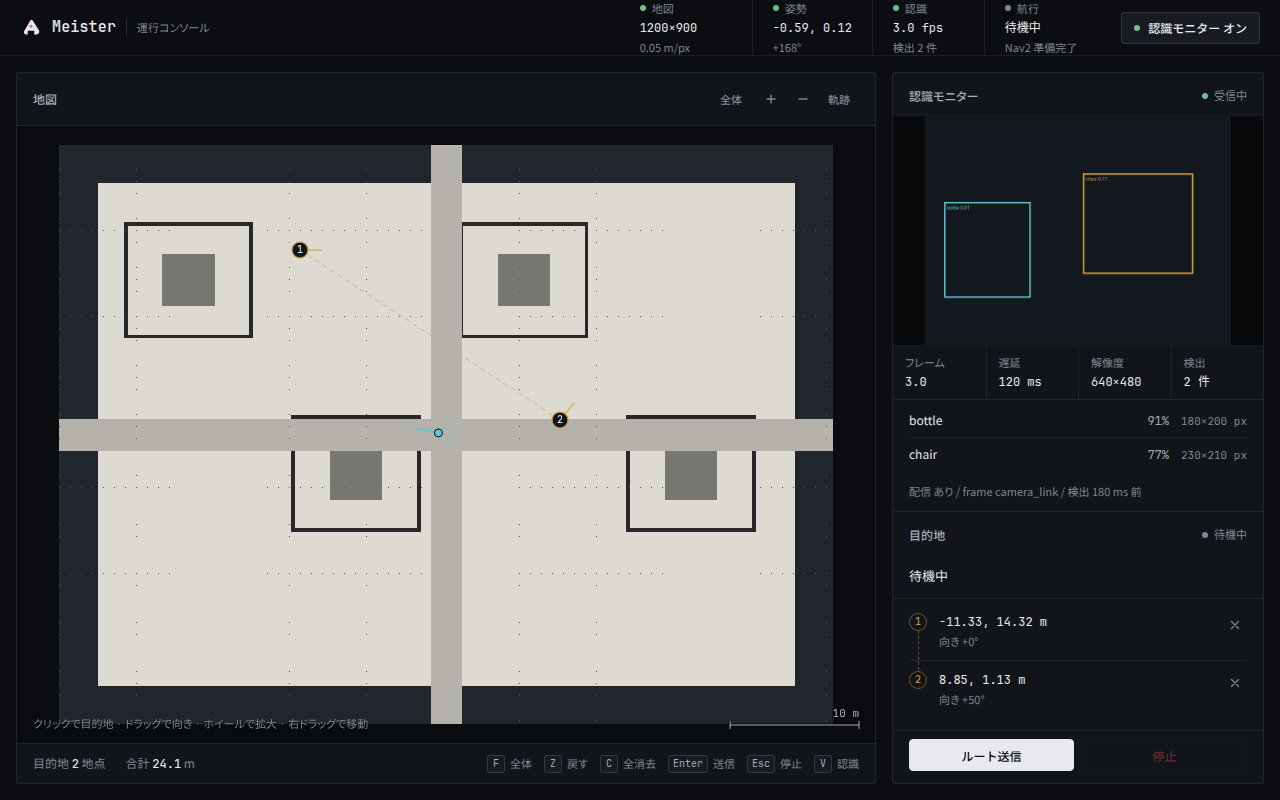
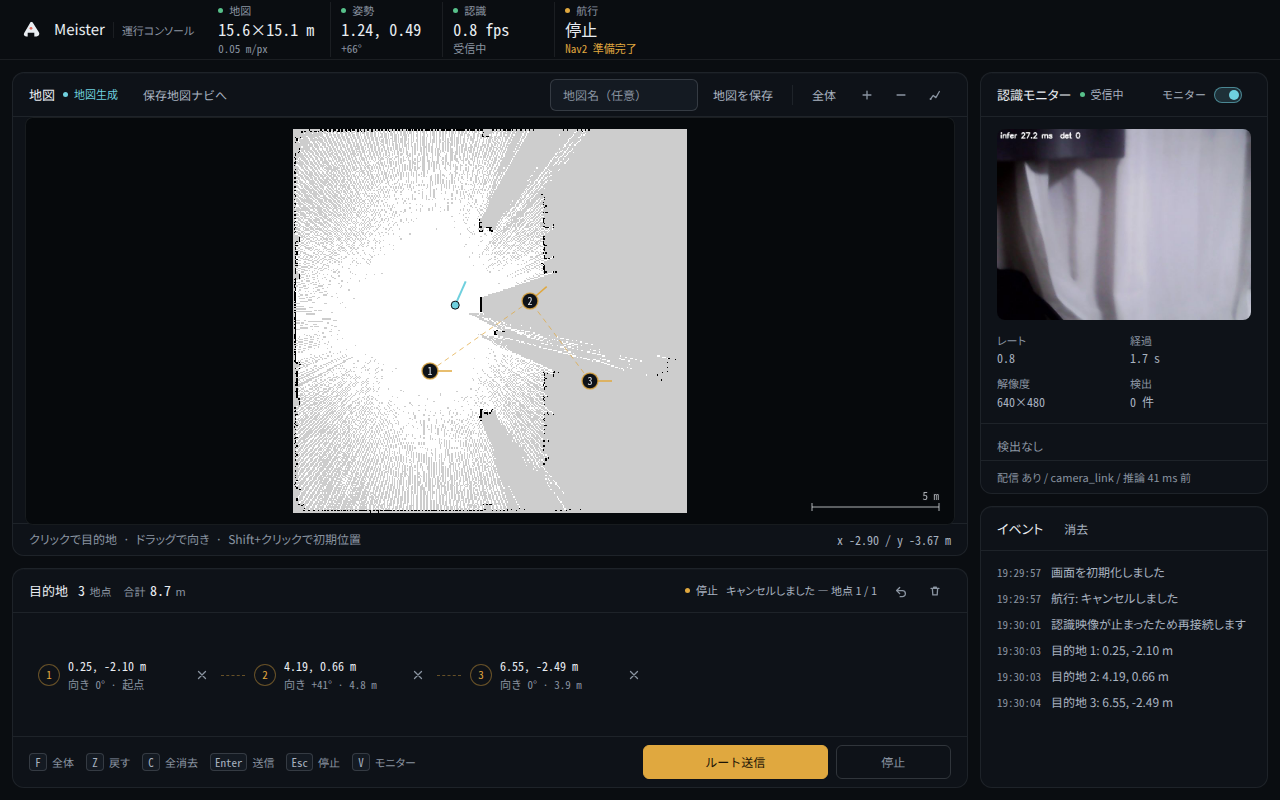
docs(webui): 画面構成とスクリーンショットを更新する

diff --git a/docs/design/05-web-ui.md b/docs/design/05-web-ui.md
@@ -1,14 +1,14 @@
 # 設計: Web UI
 
-> 対象機能: [features/05-web-ui.md](../features/05-web-ui.md) | 作成日: 2026-08-12 | 更新: 2026-11-18 | ステータス: 実装済み
+> 対象機能: [features/05-web-ui.md](../features/05-web-ui.md) | 作成日: 2026-08-12 | 更新: 2026-11-21 | ステータス: 実装済み
 > 関連ゴール: [G1](../やりたいこと.md#g1-ロッカーボギーロボット自動走行) [G2](../やりたいこと.md#g2-自動でアームでものを回収)
 
 ## 構成
 
 ```
 ブラウザ (バニラ JS / ES モジュール, ビルド無し)
-  ├ /api/map (5 s) /api/map.png (ETag + 304)
-  ├ /api/pose (0.5 s) /api/status (1 s) /api/vision (1 s)  … タブ表示中のみ
+  ├ /api/map (2 s) /api/map.png (ETag + 304)
+  ├ /api/pose (0.1 s) /api/status (0.1 s) /api/vision (0.5 s)  … タブ表示中のみ
   └ /api/vision.mjpg (MJPEG, 1 接続を張りっぱなし)          … タブ表示中のみ
         │
    httplib::Server (127.0.0.1:8088, スレッドプール)
@@ -33,7 +33,7 @@
 - **地図は内容ハッシュで版管理する**。メッセージ連番だと、同じ地図を再送する publisher が
   連番を進めるだけで ETag が変わり、304 が永久に成立しない。crop（既知セルの bbox + 5% 余白）と
   PNG エンコードは版ごとに 1 回だけ計算する（Python 版は 1 ポーリングで 2 回 crop していた）。
-- **地図の再取得では表示位置を変えない**。5 秒ごとに `Image` を作り直すが、全体表示に
+- **地図の再取得では表示位置を変えない**。2 秒ごとに `Image` を作り直すが、全体表示に
   合わせ直すのは地図の同一性（サイズ・解像度・原点）が変わったときだけ。地図更新のたびに
   操作中のパン・ズームが巻き戻るのを防ぐ。ウィンドウのリサイズは、利用者がまだパン・
   ズームしていなければ全体表示に追従し、操作後は表示を保つ。
@@ -95,33 +95,47 @@
 
 夜間の運用席で1人が長く見る計器として纏めた。画面の性格は「静かで、正確で、現場に馴染む」。
 
-- **面は無彩色**。背景・パネル・文字は1本のグラファイトの階調から取り、色は
-  **操作者が引いたルート（amber）** と **生きているロボット（cyan）** にだけ置く。
+- **2 列**: 左が「命令する側」(地図 + ルート)、右が「観測する側」(認識モニター + イベント)。
+  地図は地図の縦横比 (`--map-aspect`) で高さが決まるので、横長の地図でも黒い余白が
+  画面の主役にならない。正方形の地図はステージの中で中央に置き、クリックを受け付けるのは
+  地図の矩形の内側だけ（外側は「地図外」と表示して目的地にしない）。
+- **ルートは地図の下の横帯**。停止点は番号・座標・向き・前の地点からの距離を持ち、
+  地図の破線を横方向の破線で繰り返す。地点数と合計は見出し、送信と停止は足元に置く。
+- **操作は対象のパネルへ**: モード表示・切替・地図名・保存は地図の見出し、
+  モニターの ON/OFF は認識モニターの見出し、副操作 (戻す・全消去) は目的地の見出し。
+  ヘッダには名乗りと 4 つの計器だけを残す。
+- **面は無彩色**。背景・パネル・文字は 1 本のグラファイトの階調から取り、色は
+  **操作者が引いたルート (amber)** と **生きているロボット (cyan)** にだけ置く。
   グロー・グラデーション・丸薬バッジ・色付きカードは全部外した。
-- **ルート線が署名**。地図の点線を、目的地リストの縦の破線と丸い番号で繰り返す。
+- **ルート線が署名**。地図の点線を、目的地リストの横の破線と丸い番号で繰り返す。
   画面を見れば「人がどこへ行かせようとしているか」が一発で読める。
 - **マークは梅おにぎり**。米は文字色・海苔は背景色の抜き・梅は赤のフラットな SVG。
   ヘッダと favicon で同じ形を使う（`webui/favicon.svg`）。絵文字やグラデーションの
   ロゴタイルは使わない。
-- **文字は 6 段**（メタ 11 / ラベル 12 / 本文 13 / 強調 14 / 計器の値 16 / 見出し 20）。
+- **文字は 6 段**（メタ 11 / ラベル 12 / 本文 13 / 強調 14 / 計器の値 16 / 表示 20）。
   日本語は Noto Sans CJK JP、数字とメタは JetBrains Mono。階層は太さではなく
   大きさと色で作り、11px 未満は使わない。数字はすべて等幅数字で桁を揃える。
-- **余白は 4px の目盛り**、角丸は 4 / 8 / 12。パネルの中の入れ子は
+  メタの色は 4.5:1 を割らない（`--ink-3` #8a94a1）。
+- **余白は 4px の目盛り**、角丸は 4 / 6 / 8 / 12。パネルの中の入れ子は
   「外の半径 − 余白」で決める。同じ役割のものは同じ高さ・同じ間隔にする。
 - **面は 4 段のグラファイト + hairline**。地図と認識映像だけを一段沈めた
-  「ライトテーブル」に置き、色はルート（amber）とテレメトリ（cyan）に残す。
+  「ライトテーブル」に置き、色はルート (amber) とテレメトリ (cyan) に残す。
   状態は塗りではなく 5px の点と注記の色で言う（計器・記章・認識モニターの点）。
 - **主操作だけを塗る**。`ルート送信` だけがアンバーで、`停止` は赤い文字、
-  それ以外は静かな面に置く。復帰できない操作 (`地図を保存` など) は塗らない。
-- **3 列**: 地図 / 目的地 / 認識 + イベント。地図は正方形なので、横に広い箱に
-  入れると左右が黒く余る。縦長の列に入れると同じ画面で地図に使える画素が増える
-  （1280x800 で 428² → 590²）。イベントは時系列ログなので右端の縦列に置き、
-  追記時は最新行へ追従する（遡って読んでいる間は飛ばさない）。
-- **目的地パネルは 1 か所に集める**。一覧・合計 (目的地 N 地点 / 合計 X m)・
-  ルート送信・停止・キー操作。副操作 (戻す・全消去) は見出しのアイコンへ上げ、
-  下端は主操作 2 つだけにする。
-- **981px 以下では 1 列**。地図→目的地→認識→イベントの順で縦に積み、
-  ページがスクロールする。ヘッダの計器は折り返して 1 段使う。
+  それ以外は静かな面に置く。無効な主操作はアンバーを残さない。
+- **計器と読み取り**: 地図は物理寸法 (m) と解像度、姿勢は x/y と向き、認識は fps と
+  受信状態（受信中 / 古い / 映像待ち / 停止中）、航行は状態と Nav2 の準備。検出件数は
+  パネルに任せ、同じ数字を 2 か所に出さない。地図の足元にはカーソル座標と、ドラッグ中の
+  向き（地図の外なら「地図外」）を出す。
+- **キーボード**: `F` 全体 / `Z` 戻す / `C` 全消去（取り消し可） / `Enter` 送信 /
+  `Esc` 停止 / `V` モニター。`Esc` は文字入力中でも効く。ボタン上の `Enter` は
+  そのボタンの操作として渡し、ルート送信を横取りしない。地図にフォーカスがあるときは
+  矢印キーで視点を移動する。
+- **全消去は取り消せる**。実行後 8 秒間トーストに「元に戻す」を出し、その間に
+  目的地が増えていなければ元の一覧へ戻す。
+- **1 列 (980px 以下)**: 地図→目的地→認識→イベントの順に積み、ページがスクロールする。
+  640px 以下では `ルート送信` / `停止` を画面下に固定し、地図で目的地を足した直後に
+  押せるようにする。計器は 1 行 4 列（320px 級は 2 列）にし、注記は省いて高さを抑える。
 - **焦点と動き**。`:focus-visible` はアンバーの輪 (形は変えない)、
   `prefers-reduced-motion: reduce` では遷移を止める。ループする装飾的な動きは無し。
 

diff --git a/docs/features/05-web-ui.md b/docs/features/05-web-ui.md
@@ -33,9 +33,14 @@
       **地点ごとに順に**実行する。`waypoint_follower` がスタックに無いため `follow_waypoints`
       は使わない。SLAM が map→odom を出すので AMCL は使わない
 - [ ] フロントエンド: `webui/index.html` + `style.css` + ES モジュール（`webui/js/*.js`）。
-      計器盤レイアウト（地図/姿勢/認識/航行の 4 計器）、地図のパン・ズーム・全体表示、
-      目的地の順序と合計距離、イベント履歴、キーボード操作（F/Z/C/Enter/Esc/V）
-- [ ] 表示位置の維持: 地図が 5 秒ごとに再取得されてもパン・ズームを保つ。ウィンドウの
+      2 列（地図 + ルート / 認識 + イベント）、4 計器、地図のパン・ズーム・全体表示、
+      目的地の順序・区間・合計距離、イベント履歴、キーボード操作（F/Z/C/Enter/Esc/V）
+- [ ] 地図の縦横比に追従するステージ。地図の外側（黒い余白）のクリックは「地図外」として
+      目的地にしない。カーソル座標とドラッグ中の向きを地図の足元に出す
+- [ ] 全消去の取り消し: 実行後 8 秒間「元に戻す」を出し、目的地が増えていなければ復元する
+- [ ] ボタン上の Enter をルート送信として横取りしない。Esc は入力中でも停止。
+      スマホ（640px 以下）は操作帯（ルート送信/停止）を画面下に固定する
+- [ ] 表示位置の維持: 地図が 2 秒ごとに再取得されてもパン・ズームを保つ。ウィンドウの
       リサイズは、未操作なら全体表示に追従し、操作後は表示を保つ
 - [ ] 非表示タブの停止: 非表示中は JSON 取得と MJPEG を止め、復帰時に再取得する
 - [ ] 認識モニターの再接続: 切断・初回フレーム停止時は新しい URL で張り直す
